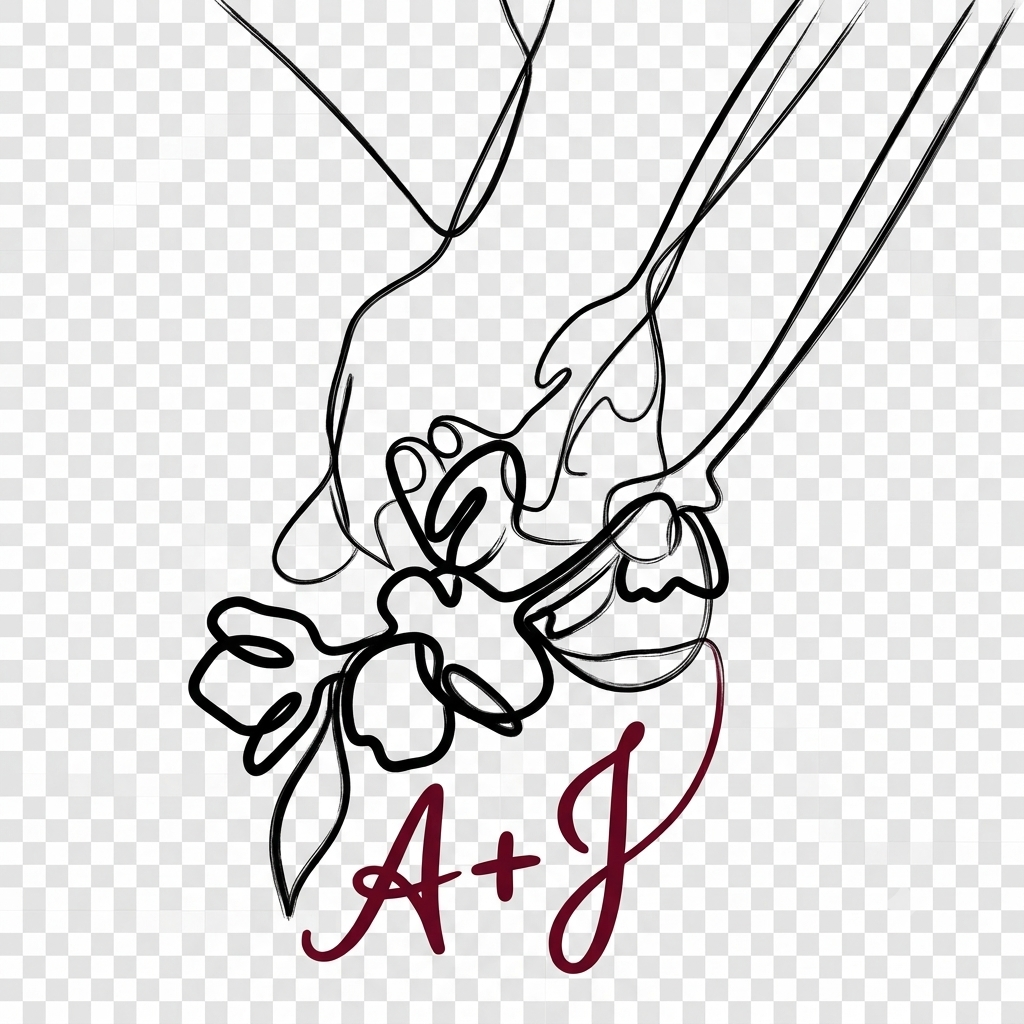
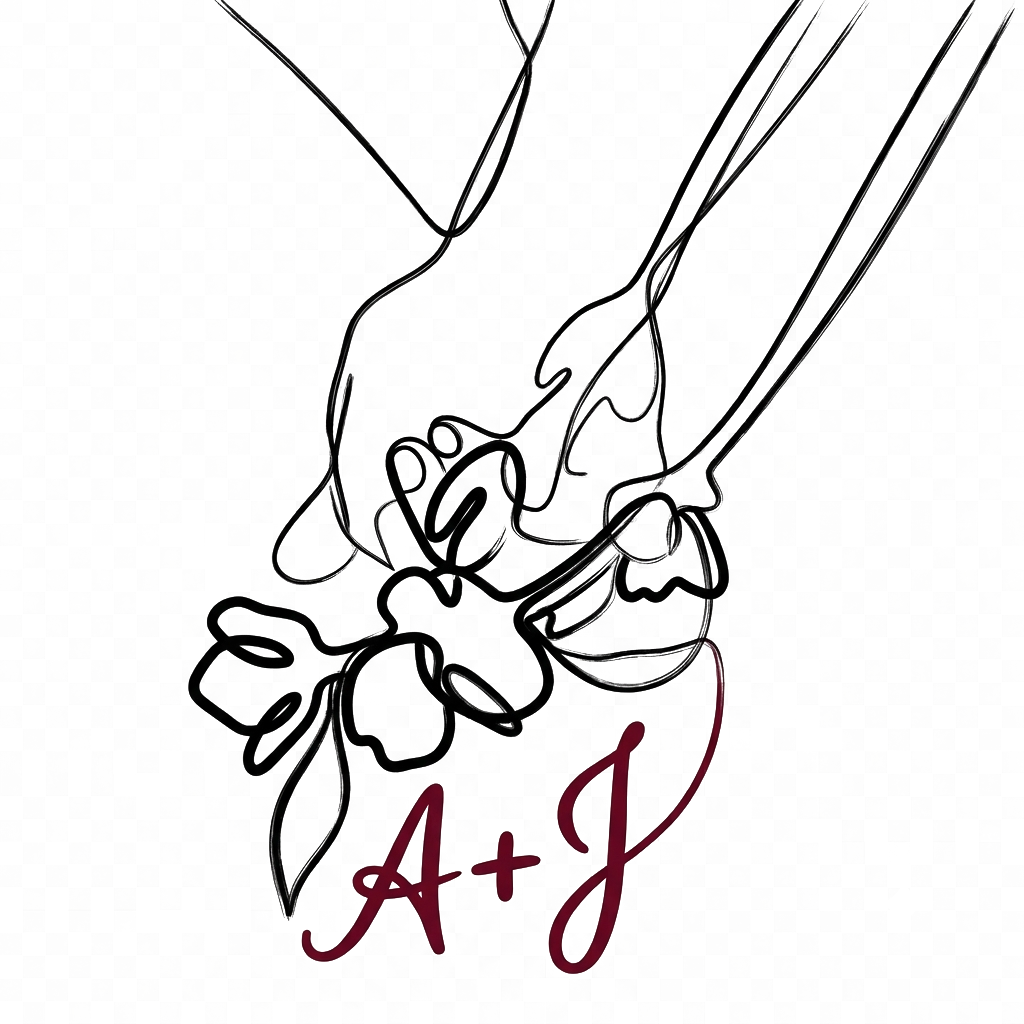
updated monogram transparency issue

diff --git a/index.html b/index.html
@@ -761,7 +761,7 @@ footer{background:var(--wine-deep);color:rgba(250,240,242,0.6);text-align:center
     <div class="deadline" style="margin-top:2rem">
       <div class="dl-icon">✦</div>
       <div class="dl-text">
-        <p>Please RSVP by <strong>27 July 2026</strong>. Need to make a change? Drop us a message and we'll sort it out.</p>
+        <p>Please RSVP by <strong>3 August 2026</strong>. Need to make a change? Drop us a message and we'll sort it out.</p>
         <p style="margin-top:0.5rem">Don't know how to reach us? How did you even get ahold of this link? Lol</p>
       </div>
     </div>